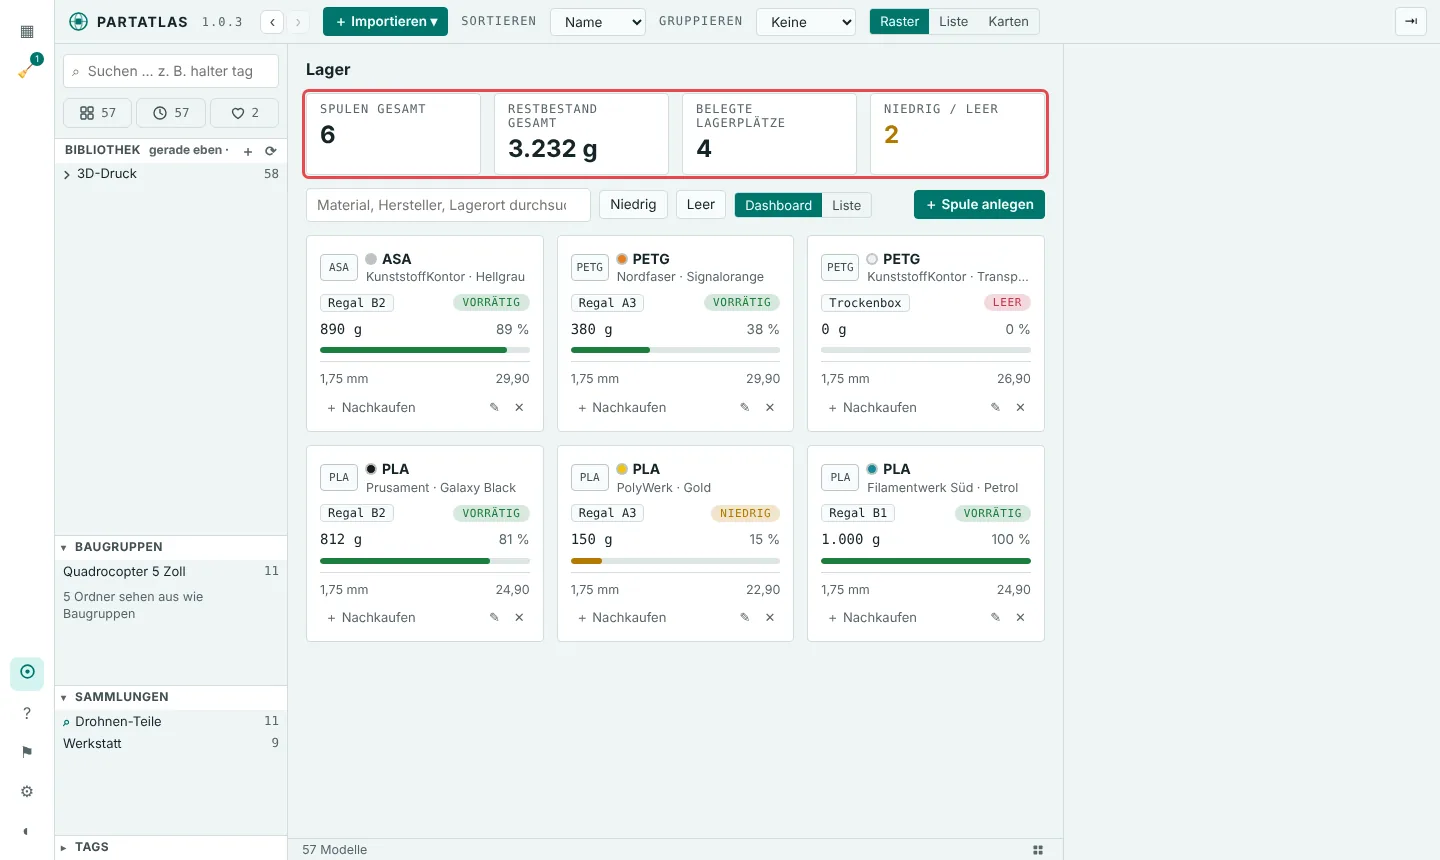
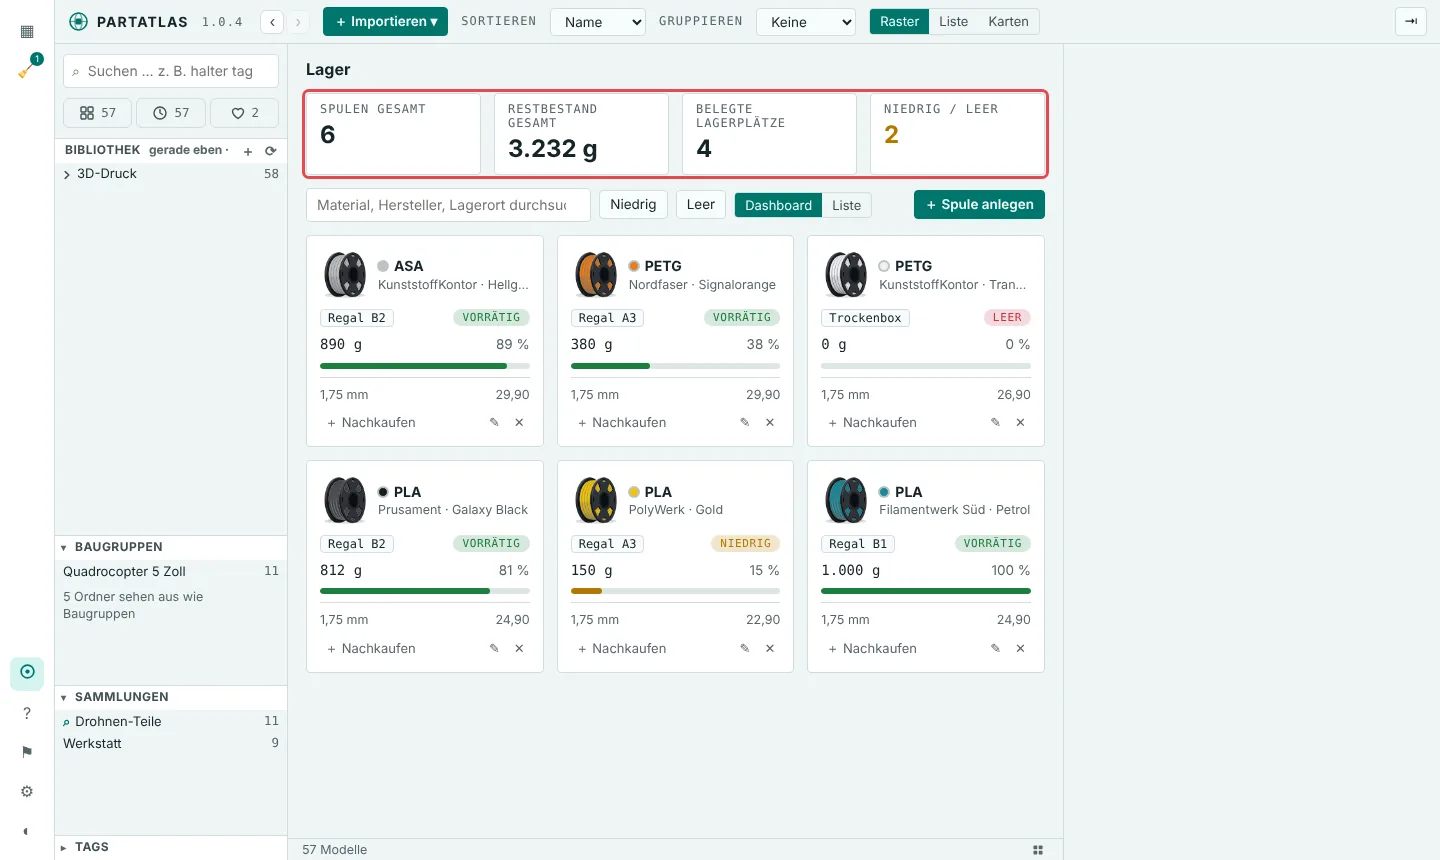
Fassung 1.0.4: Spule im Lager, Neuigkeiten, Handbuchbilder neu
Claude-Session: https://claude.ai/code/session_01QtSDAZUfB2Sx37bC6sy5Tc

Changed region(s): [[0.2188, 0.2721, 0.7188, 0.786]]

diff --git a/partatlas/neuigkeiten.py b/partatlas/neuigkeiten.py
@@ -8,6 +8,7 @@ Zeilen in der Sprache des Anwenders, was er sieht oder tun kann, nicht was im Co
 """
 
 NEUES = [
+    ("1.0.4", ["Im Lager steht jetzt eine Spule vor jeder Karte — die Wicklung hat die Farbe der Spule, auch im leeren Lager und im Formular als Platzhalter."]),
     ("1.0.3", ["Neu: das Lager. Das Spulensymbol in der Leiste links öffnet deine Spulen — mit Rest, Preis und Lagerort, als Karten oder Liste, mit Suche und Filter. Spulen "
                "anlegen (auch mehrere gleiche), bearbeiten, nachkaufen und löschen.",
                "Ein viertes Farbschema zur Probe: „GNOME“ (Einstellungen › Ansicht), mit den Farben von GTK 4.",

diff --git a/partatlas/version.py b/partatlas/version.py
@@ -1,3 +1,3 @@
 # Dritte Stelle steigt mit jedem Commit unter partatlas/, zweite bei
 # sichtbarer Änderung an Oberfläche oder Bestand (wie in pDMS).
-VERSION = "1.0.3"
+VERSION = "1.0.4"
